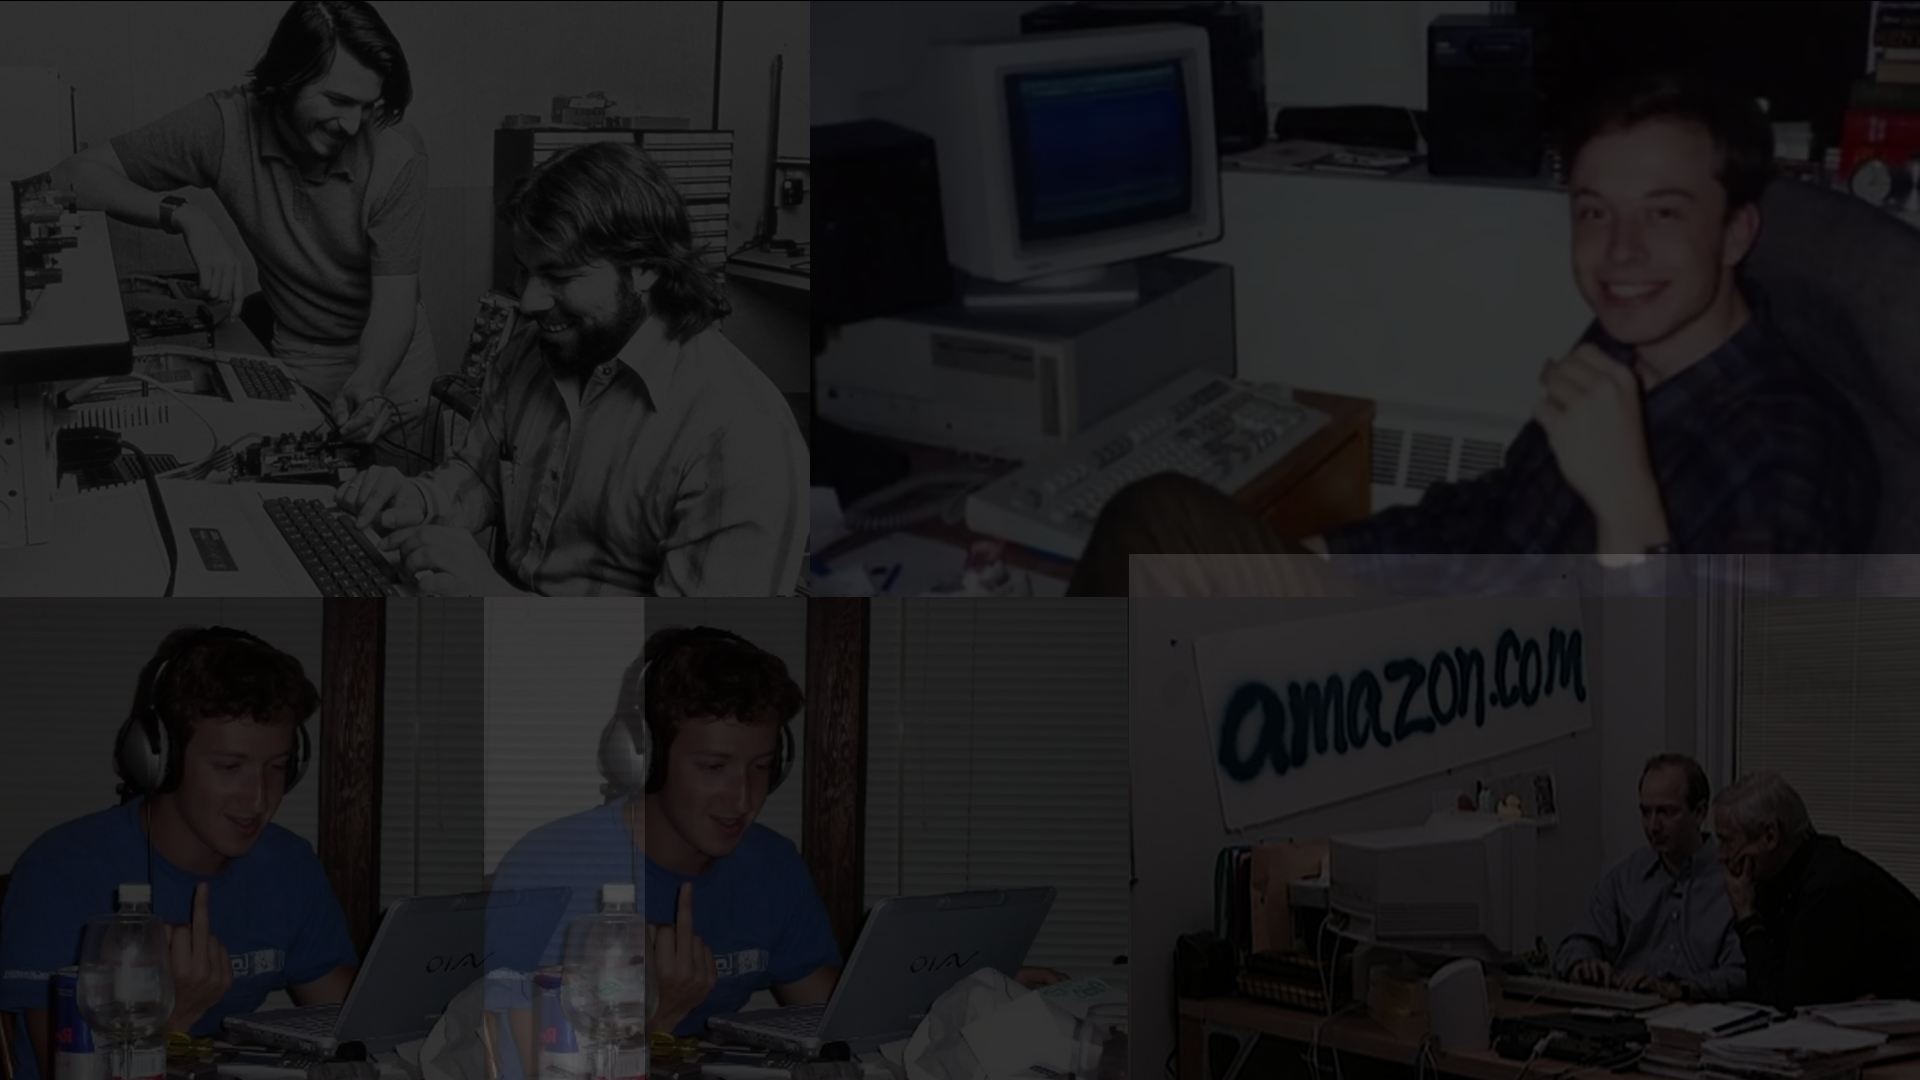
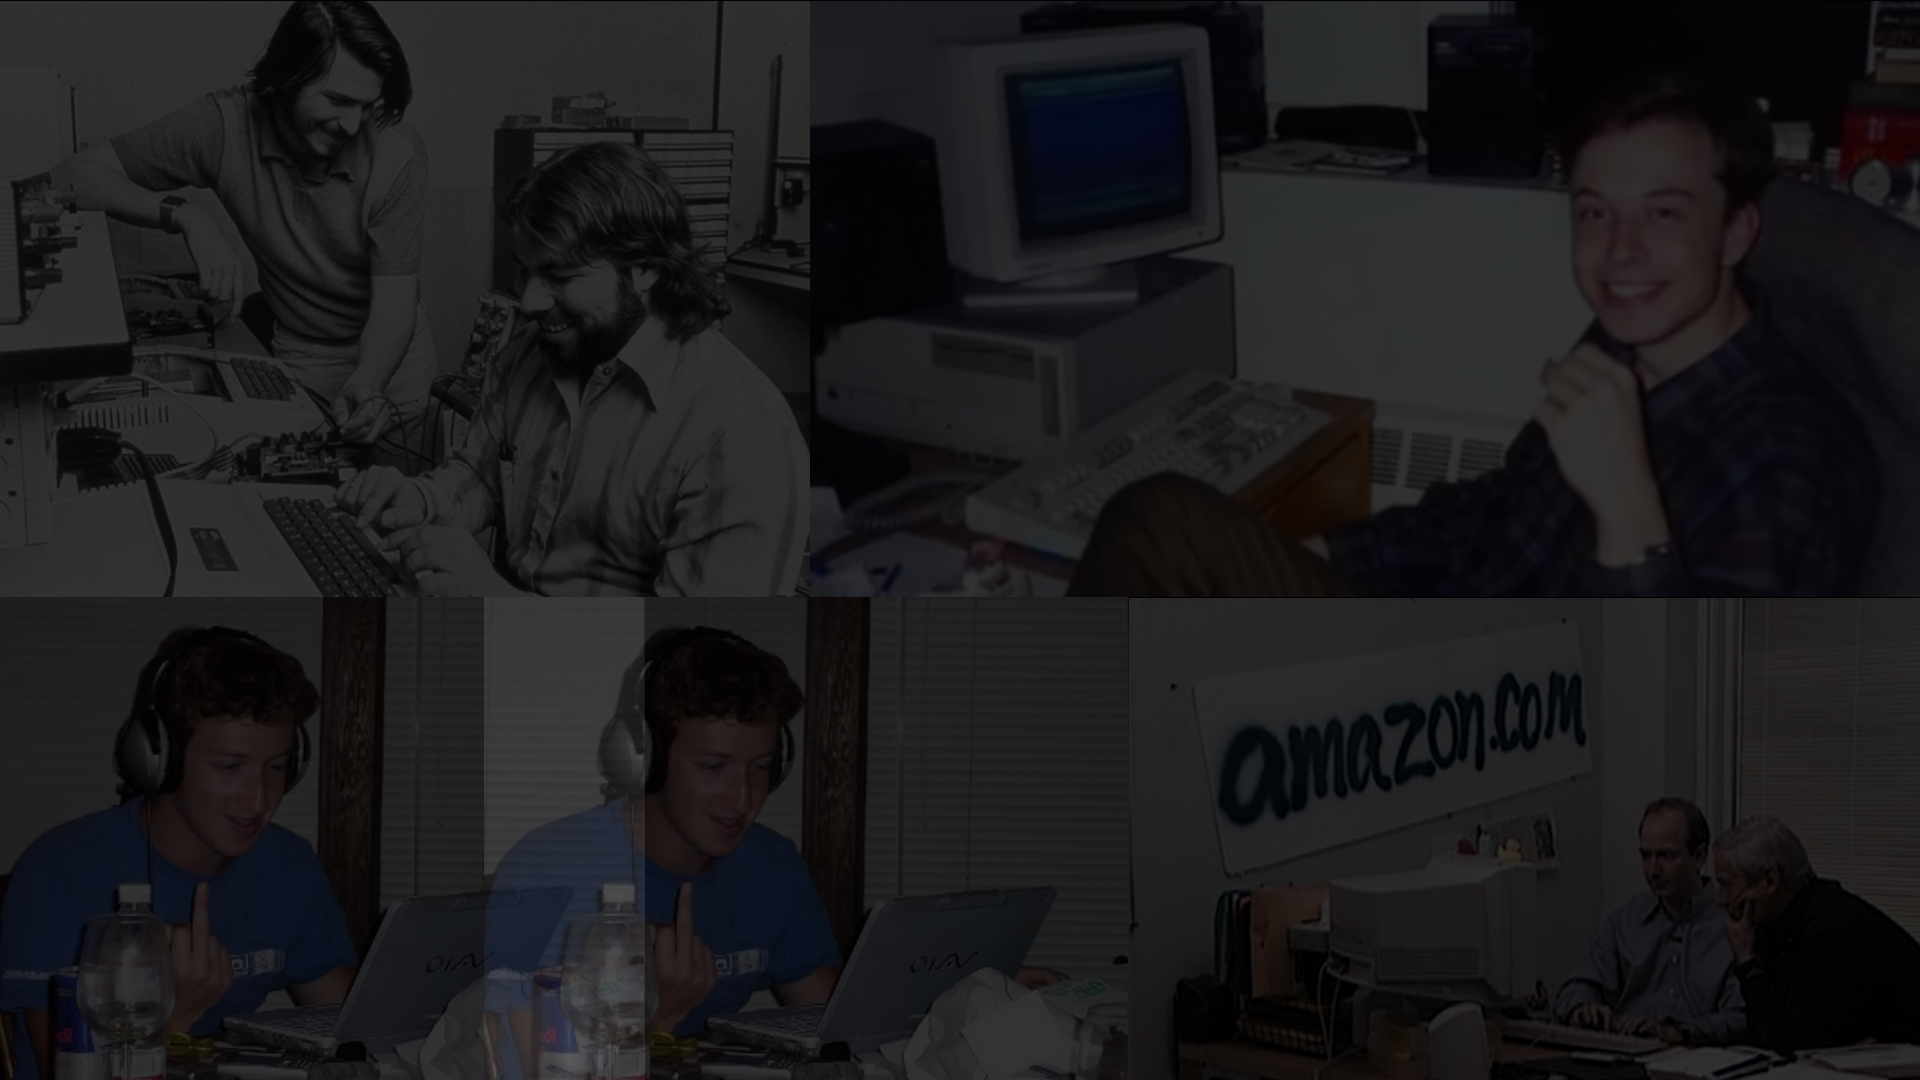
Merge pull request #2 from ownuun/ownuun
랜딩 섹션 애니메이션 및 스타일 개선 (Hero/Quotes/Final/Subtitle) + Tailwind 설정 업데이트

Pull request: 랜딩 섹션 애니메이션 및 스타일 개선 (Hero/Quotes/Final/Subtitle) + Tailwind 설정 업데이트
## 개요
- 랜딩 페이지 핵심 섹션들의 애니메이션·타이포·레이아웃을 정비하여 첫 30초 임팩트와 스크롤 전개 흐름을 개선했습니다.
- 전역 스타일과 Tailwind 설정을 보강해 일관성과 확장성을 확보했습니다.

## 변경 사항
- Hero: 로고/텍스트 모션 조정, 스크롤 진입 시 전환 자연스러움 개선
- Quotes: 타이핑/페이드 타이밍 보정, 섹션별 배경 톤 변화 강화
- Final: 중앙 정렬·타이핑 안정화, CTA 대비 강화 기반
- Subtitle: 구조 간소화 및 스타일 통일
- Styles: `globals.css` 전역 유틸/키프레임 정리
- Tailwind: `tailwind.config.ts` 설정 보강(색상/애니메이션/폰트 등)
- Assets: 배경/브랜드 이미지 교체 및 추가(`public/image/*`)

## 파일 목록
- 수정: `src/components/sections/HeroSection.tsx`
- 수정: `src/components/sections/QuotesSection.tsx`
- 수정: `src/components/sections/FinalSection.tsx`
- 수정: `src/components/sections/SubtitleSection.tsx`
- 수정: `src/app/globals.css`
- 수정: `tailwind.config.ts`
- 추가/변경: `public/image/back1.png`, `public/image/uni.png` 외 일부

## 동기/의도
- 스크롤 내러티브의 몰입감을 높여 PRD 목표(임팩트, 스토리텔링, CTA 전환)를 지원
- 반응형/접근성/성능 기반을 다져 이후 섹션 확장과 튜닝을 용이하게 함

## 테스트 방법
1) 로컬 실행 후 뷰포트별(375/768/1280px) 레이아웃 확인
2) 스크롤 진행에 따른 타이핑·페이드·슬라이드 애니메이션 자연스러움 확인
3) 키보드 포커스 이동 및 명암 대비(다크/라이트 배경 대비) 점검
4) Lighthouse(Performance/Accessibility) 측정: 목표 90+ (MVP 기준)

## 체크리스트
- [x] 빌드/런타임 에러 없음
- [x] 린트 에러 없음
- [x] 반응형 레이아웃 정상 동작
- [x] 주요 애니메이션 끊김 없이 동작
- [x] 접근성 기본(WCAG 2.1 AA) 준수
- [x] 번들 영향 최소화

## 스크린샷/영상(선택)
- 필요 시 GIF/짧은 동영상 첨부 예정

## 브레이킹 체인지
- 없음

## 관련 이슈
- (예) Closes #123

## 리뷰 포인트
- 애니메이션 타이밍/이징 체감
- 타이포/여백 스케일이 뷰포트별로 자연스러운지
- Tailwind 설정 및 전역 스타일의 확장성

diff --git a/src/components/sections/HeroSection.tsx b/src/components/sections/HeroSection.tsx
@@ -4,21 +4,46 @@ import { useState, useEffect } from 'react';
 
 export function HeroSection() {
     const [isScrolled, setIsScrolled] = useState(false);
+    const [showContent, setShowContent] = useState(false);
+    const [showQuotes, setShowQuotes] = useState(false);
+    const [typingComplete, setTypingComplete] = useState(false);
+    const [showPhotos, setShowPhotos] = useState(false);
 
     useEffect(() => {
         const handleScroll = () => {
+            const scrollY = window.scrollY;
+
             // 스크롤이 50px 이상 되면 로고를 축소하고 이동
-            setIsScrolled(window.scrollY > 50);
+            const scrolled = scrollY > 50;
+            setIsScrolled(scrolled);
+
+            // 스크롤 상태에 따라 콘텐츠 표시/숨김
+            setShowContent(scrolled);
+
+            // 타이핑이 완료된 후에만 명언 섹션 표시 가능
+            if (typingComplete) {
+                setShowQuotes(scrollY > 500);
+            }
+
+            // 명언들이 표시된 후 더 스크롤하면 사진들이 등장
+            if (showQuotes && scrollY > 800) {
+                setShowPhotos(true);
+            } else if (scrollY <= 800) {
+                setShowPhotos(false);
+            }
         };
 
         window.addEventListener('scroll', handleScroll);
         return () => window.removeEventListener('scroll', handleScroll);
-    }, []);
+    }, [typingComplete, showQuotes]);
+
+
 
     return (
         <>
-            <section className="min-h-screen bg-secondary-500 flex items-center justify-center relative">
-                {/* BIBO 로고 - transform을 사용한 부드러운 이동 */}
+            {/* 메인 컨테이너 - 스크롤에 따른 자연스러운 배경 전환 */}
+            <div className="relative min-h-screen">
+                {/* BIBO 로고 - 항상 최상단에 표시 */}
                 <div className="fixed inset-0 flex items-center justify-center pointer-events-none z-50">
                     <img
                         src="/image/logo.png"
@@ -32,7 +57,154 @@ export function HeroSection() {
                         }}
                     />
                 </div>
-            </section>
+
+                {/* 타이핑 텍스트와 지구본 - 항상 최상단에 표시 */}
+                {showContent && (
+                    <div className="fixed inset-0 pointer-events-none z-40">
+                        {/* 타이핑 텍스트 */}
+                        <div className="absolute top-10 left-1/2 transform -translate-x-[700px] w-full max-w-8xl px-2">
+                            <div
+                                className="typing-animation flex items-center gap-2"
+                                onAnimationEnd={() => setTypingComplete(true)}
+                            >
+                                <span className={`text-2xl md:text-4xl lg:text-5xl font-colored-crayons ${showQuotes ? 'text-white' : 'text-black'
+                                    }`}>
+                                    TWO KOREAN COLLEGE STUDENTS ON A JOURNEY TO BUILD A{' '}
+                                    <span className="bg-gradient-to-r from-red-500 via-green-500 to-purple-500 bg-clip-text text-transparent">
+                                        UNICORN
+                                    </span>
+                                </span>
+                                <img
+                                    src="/image/uni.png"
+                                    alt="Unicorn"
+                                    className={`h-5 md:h-10 lg:h-14 object-contain transition-all duration-500 -mt-1 ${showContent ? 'opacity-100' : 'opacity-0'
+                                        }`}
+                                    style={{
+                                        aspectRatio: 'auto'
+                                    }}
+                                />
+                            </div>
+                        </div>
+
+
+                    </div>
+                )}
+
+                {/* 첫 번째 섹션 - 노란 배경 */}
+                <section
+                    className={`fixed inset-0 flex items-center justify-center overflow-hidden transition-opacity duration-1000 ${showQuotes ? 'opacity-0 pointer-events-none' : 'opacity-100'
+                        }`}
+                    style={{
+                        background: '#FFE500',
+                        zIndex: 10
+                    }}
+                >
+                </section>
+
+                {/* 두 번째 섹션 - 명언 섹션 */}
+                <section
+                    className={`fixed inset-0 flex items-center justify-center transition-opacity duration-1000 ${showQuotes ? 'opacity-100' : 'opacity-0 pointer-events-none'
+                        }`}
+                    style={{
+                        backgroundImage: 'url(/image/back1.png)',
+                        backgroundSize: 'cover',
+                        backgroundPosition: 'center',
+                        backgroundRepeat: 'no-repeat',
+                        zIndex: 5
+                    }}
+                >
+                    {/* 가벼운 오버레이 */}
+                    <div className="absolute inset-0 bg-black bg-opacity-20"></div>
+
+                    {/* 4개 명언 분산 배치 */}
+                    <div className="relative z-10 w-full h-screen px-4">
+                        {/* 첫 번째 명언 - 좌상단 */}
+                        <div className="absolute top-56 left-[240px] max-w-2xl animate-fade-in">
+                            <blockquote className="text-white text-xl md:text-2xl lg:text-3xl leading-relaxed font-crayons">
+                                "Being the richest man in the cemetery<br />
+                                doesn't matter to me. Going to bed at<br />
+                                night saying we've done something<br />
+                                wonderful... that's what matters to me."
+                            </blockquote>
+                        </div>
+
+                        {/* 두 번째 명언 - 우상단 */}
+                        <div className="absolute top-[260px] right-[400px] max-w-2xl animate-fade-in" style={{ animationDelay: '0.2s' }}>
+                            <blockquote className="text-white text-xl md:text-2xl lg:text-3xl leading-relaxed font-crayons">
+                                "I'd rather be optimistic and wrong<br />
+                                than pessimistic and right."
+                            </blockquote>
+                        </div>
+
+                        {/* 세 번째 명언 - 좌하단 */}
+                        <div className="absolute bottom-[200px] left-[240px] max-w-2xl animate-fade-in" style={{ animationDelay: '0.4s' }}>
+                            <blockquote className="text-white text-xl md:text-2xl lg:text-3xl leading-relaxed font-crayons">
+                                "The biggest risk is not taking any risk"
+                            </blockquote>
+                        </div>
+
+                        {/* 네 번째 명언 - 우하단 */}
+                        <div className="absolute bottom-[200px] right-[400px] max-w-2xl animate-fade-in" style={{ animationDelay: '0.6s' }}>
+                            <blockquote className="text-white text-xl md:text-2xl lg:text-3xl leading-relaxed font-crayons">
+                                "If you can't tolerate critics, don't<br />
+                                do anything new or interesting."
+                            </blockquote>
+                        </div>
+
+                        {/* 사진들 - PhotosSection과 동일한 크기로 명언을 덮도록 등장 */}
+                        {showPhotos && (
+                            <>
+                                {/* 첫 번째 사진 - 스티브 잡스 */}
+                                <div className="absolute top-[150px] left-[200px] z-20 animate-fade-in">
+                                    <div className="aspect-video bg-white rounded-lg overflow-hidden shadow-2xl w-96 lg:w-[600px]">
+                                        <img
+                                            src="/image/apple.png"
+                                            alt="Steve Jobs"
+                                            className="w-full h-full object-cover"
+                                        />
+                                    </div>
+                                </div>
+
+                                {/* 두 번째 사진 - 엘론 머스크 */}
+                                <div className="absolute top-[150px] right-[300px] z-20 animate-fade-in">
+                                    <div className="aspect-video bg-white rounded-lg overflow-hidden shadow-2xl w-96 lg:w-[600px]">
+                                        <img
+                                            src="/image/tesla.png"
+                                            alt="Elon Musk"
+                                            className="w-full h-full object-cover"
+                                        />
+                                    </div>
+                                </div>
+
+                                {/* 세 번째 사진 - 마크 저커버그 */}
+                                <div className="absolute bottom-[30px] left-[200px] z-20 animate-fade-in">
+                                    <div className="aspect-video bg-white rounded-lg overflow-hidden shadow-2xl w-96 lg:w-[600px]">
+                                        <img
+                                            src="/image/meta.png"
+                                            alt="Mark Zuckerberg"
+                                            className="w-full h-full object-cover"
+                                        />
+                                    </div>
+                                </div>
+
+                                {/* 네 번째 사진 - 제프 베조스 */}
+                                <div className="absolute bottom-[30px] right-[300px] z-20 animate-fade-in">
+                                    <div className="aspect-video bg-white rounded-lg overflow-hidden shadow-2xl w-96 lg:w-[600px]">
+                                        <img
+                                            src="/image/amazon.png"
+                                            alt="Jeff Bezos"
+                                            className="w-full h-full object-cover"
+                                        />
+                                    </div>
+                                </div>
+                            </>
+                        )}
+                    </div>
+                </section>
+
+                {/* 스크롤 공간 확보를 위한 더미 div */}
+                <div className="h-[200vh]"></div>
+            </div>
         </>
     );
 }

diff --git a/src/app/globals.css b/src/app/globals.css
@@ -11,6 +11,14 @@
   font-display: swap;
 }
 
+@font-face {
+  font-family: 'Colored Crayons';
+  src: url('/fonts/ColoredCrayons-7wPR.ttf') format('truetype');
+  font-weight: 400;
+  font-style: normal;
+  font-display: swap;
+}
+
 @layer base {
   :root {
     /* BIBO 디자인 시스템 - 피그마 기반 라이트 테마 */
@@ -200,6 +208,70 @@
   .logo-super-slow {
     transition: all 2000ms cubic-bezier(0.23, 1, 0.32, 1) !important;
     will-change: transform, width, height !important;
+  }
+
+  /* 타이핑 애니메이션 */
+  .typing-animation {
+    overflow: hidden;
+    white-space: nowrap;
+    width: 0;
+    animation: typing 1.3s steps(250, end) 0.5s forwards;
+    max-width: none;
+  }
+
+  .typing-animation.show {
+    animation: typing 4s steps(200, end) 0.5s forwards;
+  }
+
+  .typing-animation.hide {
+    animation: typing-reverse 0.5s steps(80, end) forwards;
+  }
+
+  @keyframes typing {
+    from {
+      width: 0;
+    }
+
+    to {
+      width: 100%;
+    }
+  }
+
+  /* 지구본과 텍스트 페이드인 애니메이션 */
+  .fade-in-delayed {
+    opacity: 0;
+    animation: fadeInDelayed 1s ease-in-out 0.7s both;
+  }
+
+  @keyframes fadeInDelayed {
+    from {
+      opacity: 0;
+      transform: translateY(10px);
+    }
+
+    to {
+      opacity: 1;
+      transform: translateY(0);
+    }
+  }
+
+
+
+  /* 왼쪽에서 슬라이드 인 애니메이션 */
+  @keyframes slideInFromLeft {
+    from {
+      opacity: 0;
+      transform: translateX(-30px);
+    }
+
+    to {
+      opacity: 1;
+      transform: translateX(0);
+    }
+  }
+
+  .slide-in-left {
+    animation: slideInFromLeft 0.8s ease-out forwards;
   }
 
   /* 접근성: 스크린 리더 전용 텍스트 */

diff --git a/src/components/sections/SubtitleSection.tsx b/src/components/sections/SubtitleSection.tsx
@@ -5,22 +5,9 @@ export function SubtitleSection() {
         <section className="min-h-screen bg-secondary-500 flex items-center justify-center relative px-8">
 
 
-            {/* 좌측 상단 언어/지역 아이콘 */}
-            <div className="absolute top-8 right-8 z-10">
-                <div className="w-8 h-8 rounded-full bg-black bg-opacity-20 flex items-center justify-center">
-                    <div className="w-4 h-4 rounded-full border border-black opacity-60" />
-                </div>
-                <span className="text-xs text-black opacity-60 mt-1 block text-center">EN/KO</span>
-            </div>
 
-            {/* 중앙 메인 텍스트 */}
-            <div className="text-center max-w-6xl mx-auto">
-                <h1 className="font-crayons text-black text-4xl md:text-6xl lg:text-7xl leading-tight">
-                    TWO KOREAN COLLEGE STUDENTS ON A JOURNEY TO BUILD A{' '}
-                    <span className="text-primary-500">UNICORN</span>{' '}
-                    <span className="text-4xl">🦄</span>
-                </h1>
-            </div>
+
+
         </section>
     );
 }

diff --git a/src/components/sections/QuotesSection.tsx b/src/components/sections/QuotesSection.tsx
@@ -24,13 +24,7 @@ export function QuotesSection() {
         <section className="min-h-screen bg-secondary-500 flex items-center justify-center relative px-8">
 
 
-            {/* 좌측 상단 언어/지역 아이콘 */}
-            <div className="absolute top-8 right-8 z-10">
-                <div className="w-8 h-8 rounded-full bg-black bg-opacity-20 flex items-center justify-center">
-                    <div className="w-4 h-4 rounded-full border border-black opacity-60" />
-                </div>
-                <span className="text-xs text-black opacity-60 mt-1 block text-center">EN/KO</span>
-            </div>
+
 
             {/* 4개 명언 그리드 */}
             <div className="max-w-7xl mx-auto grid grid-cols-1 md:grid-cols-2 gap-8 lg:gap-12">

diff --git a/tailwind.config.ts b/tailwind.config.ts
@@ -72,6 +72,7 @@ const config = {
       // BIBO 타이포그래피 시스템
       fontFamily: {
         'crayons': ['CF Crayons', 'cursive', 'system-ui', 'sans-serif'], // BIBO 로고용 크레용 폰트
+        'colored-crayons': ['Colored Crayons', 'cursive', 'system-ui', 'sans-serif'], // 컬러 크레용 폰트
         'heading': ['var(--font-geist-sans)', 'system-ui', 'sans-serif'],
         'body': ['var(--font-geist-sans)', 'system-ui', 'sans-serif'],
         'mono': ['var(--font-geist-mono)', 'Consolas', 'monospace'],